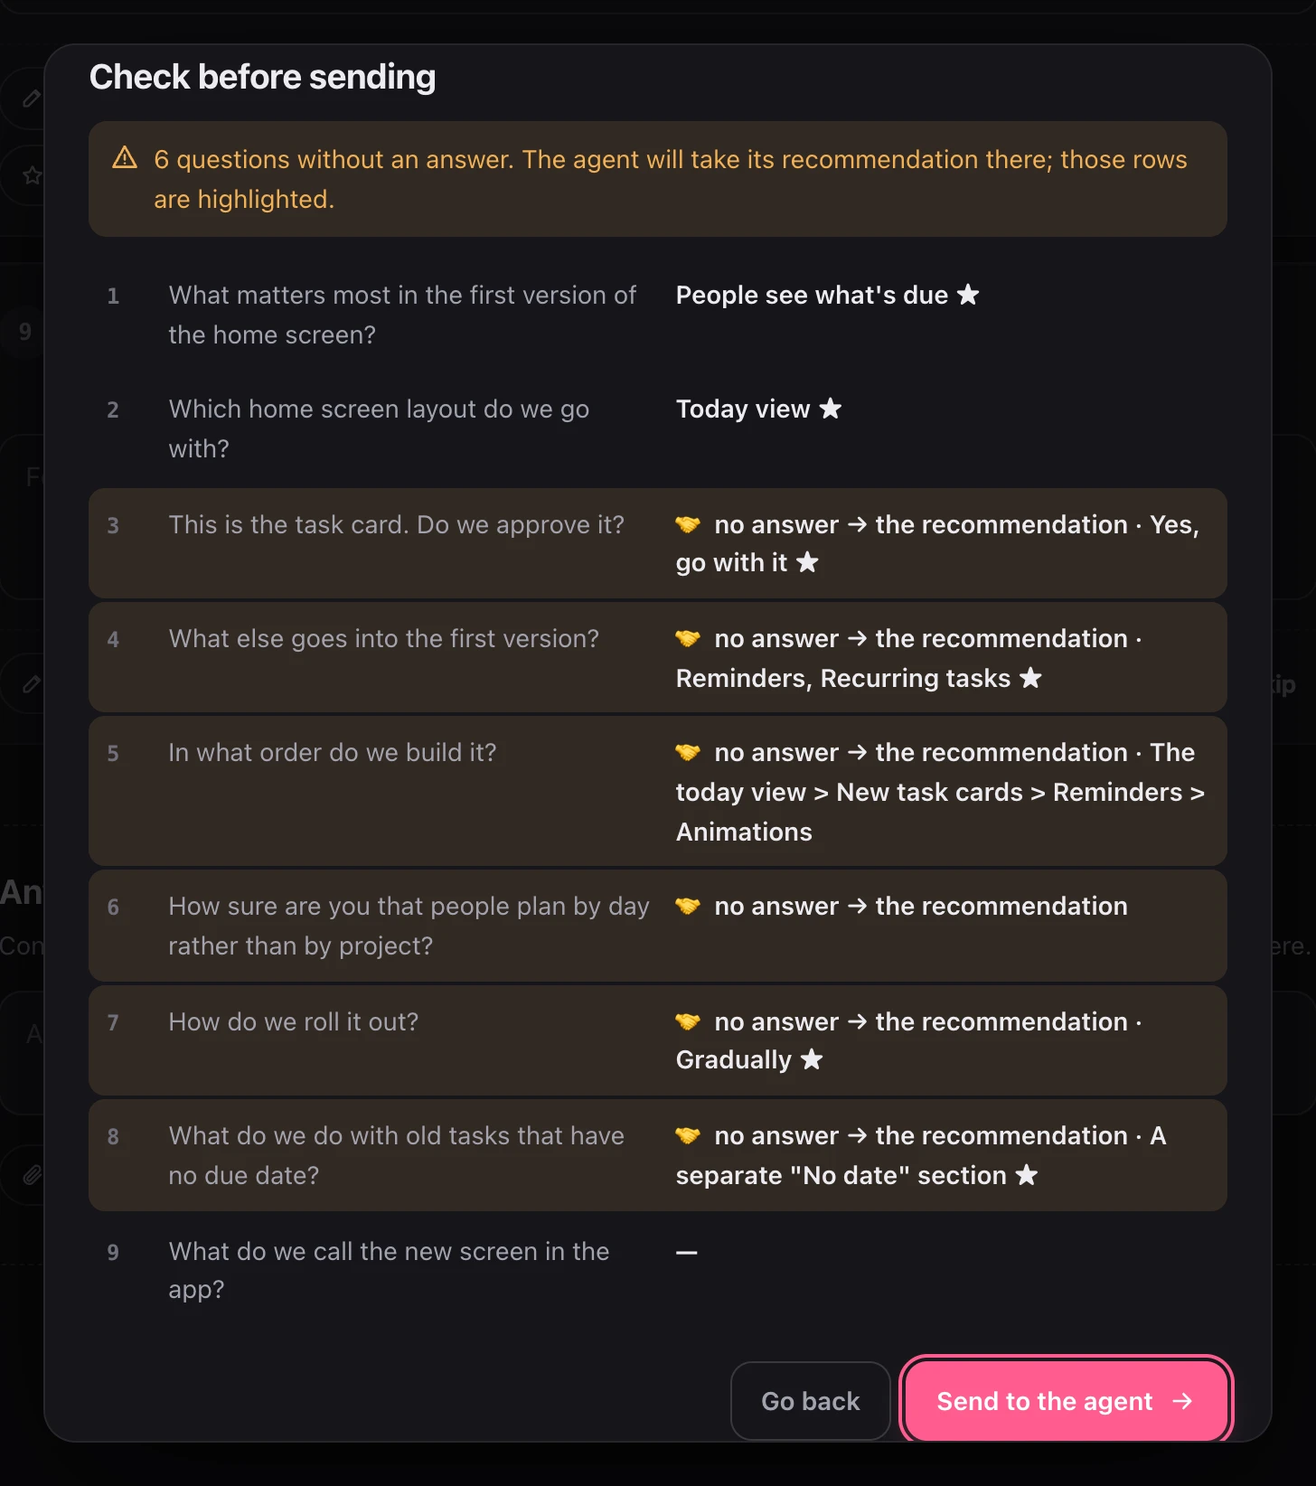
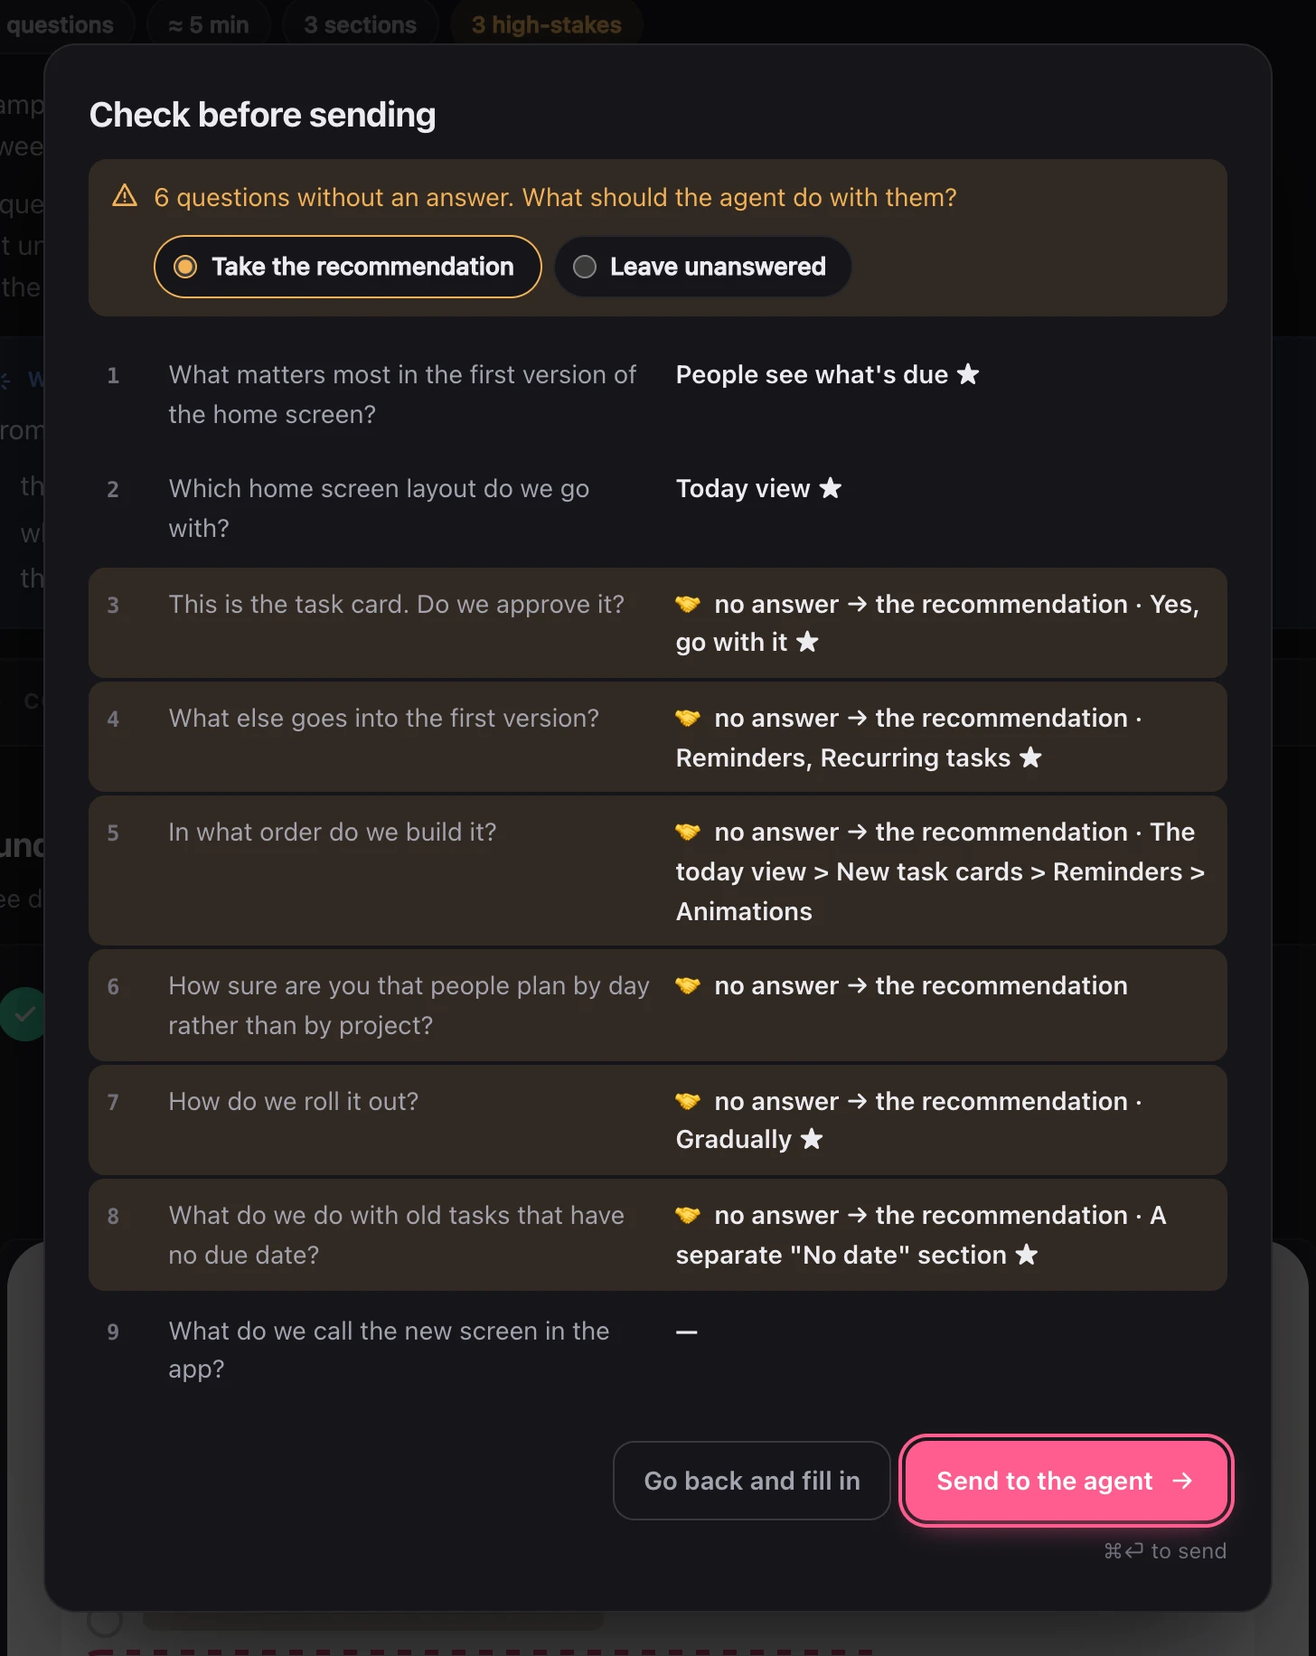
Ask what to do with unanswered questions before sending
The review dialog now lets the user choose: the agent takes its
recommendation for unanswered questions, or they stay unanswered
({ flag: "skip", auto: true }). A "Go back and fill in" button jumps to
the first open question.

- the dialog opens at the top, so the choice is visible on a phone
- dialog rows are translated; the digest stays in English
- a skipped ranking no longer sends the default order

diff --git a/ui/js/overlays.js b/ui/js/overlays.js
@@ -37,7 +37,8 @@ export function openModal(content, { wide = false, onClose } = {}) {
   document.addEventListener("keydown", onKey, true);
   root.addEventListener("click", onClick);
   closeCurrent = close;
-  requestAnimationFrame(() => (box.querySelector("[data-autofocus]") || box.querySelector("button"))?.focus());
+  // the top of a long modal stays in view; focus alone would scroll it to the button
+  requestAnimationFrame(() => (box.querySelector("[data-autofocus]") || box.querySelector("button"))?.focus({ preventScroll: true }));
   return close;
 }
 
@@ -114,38 +115,77 @@ export function openLightbox(images, start, { onAnnotate, annotate = false } = {
   if (annotate && onAnnotate && sameOrigin(images[i].src)) startMarks();
 }
 
+// What to do with unanswered questions; kept while the page is open.
+let fillMode = "recommend";
+
 export function openReview({ spec, answers, comment, onSend, onJump }) {
-  const final = finalizeAnswers(spec, answers, { fill: true });
   const visible = visibleQuestions(spec, answers);
   const open = visible.filter((q) => !isResolved(q, answers[q.id]));
-  const rows = visible.map((q, i) => {
-    const auto = !isResolved(q, answers[q.id]);
-    return h(
-      "button.rv-row",
-      { type: "button", class: auto ? "auto" : "", onclick: () => (close(), onJump(q.id)) },
-      h("span.rv-n", {}, String(i + 1)),
-      h("span.rv-q", { html: mdInline(q.title) }),
-      h("span.rv-a", {}, describe(q, final[q.id]), extrasNote(final[q.id])),
+  const words = reviewWords();
+  const list = h("div.rv-list");
+  const render = () => {
+    const final = finalizeAnswers(spec, answers, { fill: fillMode });
+    list.replaceChildren(
+      ...visible.map((q, i) =>
+        h(
+          "button.rv-row",
+          { type: "button", class: open.includes(q) ? "auto" : "", onclick: () => (close(), onJump(q.id)) },
+          h("span.rv-n", {}, String(i + 1)),
+          h("span.rv-q", { html: mdInline(q.title) }),
+          h("span.rv-a", {}, describe(q, final[q.id], words), extrasNote(final[q.id])),
+        ),
+      ),
     );
-  });
-  const send = h("button.btn.primary", { type: "button", "data-autofocus": "", html: `${t("review.send")}${icon("arrow")}`, onclick: () => (close(), onSend()) });
+  };
+  render();
+  const choice = (mode) =>
+    h(
+      "label.rv-choice",
+      {},
+      h("input", { type: "radio", name: "rv-fill", value: mode, checked: fillMode === mode, onchange: () => ((fillMode = mode), render()) }),
+      h("span", {}, t(`review.fill.${mode}`)),
+    );
+  const status = open.length
+    ? h(
+        "div.rv-warn",
+        { html: icon("alert") },
+        h(
+          "div.rv-body",
+          {},
+          h("p", { id: "rv-open" }, t("review.open", open.length)),
+          h("div.rv-fill", { role: "radiogroup", "aria-labelledby": "rv-open" }, choice("recommend"), choice("skip")),
+        ),
+      )
+    : h("p.rv-ok", { html: `${icon("check")}${t("review.ok")}` });
+  const back = open.length
+    ? h("button.btn.ghost", { type: "button", onclick: () => (close(), onJump(open[0].id)) }, t("review.fillIn"))
+    : h("button.btn.ghost", { type: "button", onclick: () => close() }, t("common.back"));
+  const send = h("button.btn.primary", { type: "button", "data-autofocus": "", html: `${t("review.send")}${icon("arrow")}`, onclick: () => (close(), onSend(fillMode)) });
   const close = openModal(
     h(
       "div.review",
       {},
       h("h2.modal-title", {}, t("review.title")),
-      open.length
-        ? h("p.rv-warn", { html: `${icon("alert")}${t("review.open", open.length)}` })
-        : h("p.rv-ok", { html: `${icon("check")}${t("review.ok")}` }),
-      h("div.rv-list", {}, rows),
+      status,
+      list,
       comment && h("p.rv-comment", {}, t("review.comment", comment)),
-      h("div.modal-actions", {}, h("button.btn.ghost", { type: "button", onclick: () => close() }, t("common.back")), send),
+      h("div.modal-actions", {}, back, send),
       h("p.modal-hint", {}, t("review.hint")),
     ),
     { wide: true },
   );
   return { send: () => send.click() };
 }
+
+const reviewWords = () => ({
+  explain: t("rv.explain"),
+  skip: t("rv.skip"),
+  delegate: t("rv.delegate"),
+  autoSkip: t("rv.autoSkip"),
+  autoDelegate: t("rv.autoDelegate"),
+  against: (recs) => t("rv.against", recs),
+  own: (text) => t("rv.own", text),
+});
 
 function extrasNote(r) {
   const bits = [r?.note && t("review.note"), r?.attachments?.length && `📎 ${r.attachments.length}`].filter(Boolean);

diff --git a/ui/js/logic.js b/ui/js/logic.js
@@ -67,15 +67,17 @@ export function withRecommendation(q, a) {
   return { ...a, selected: q.type === "single" || q.type === "confirm" ? rec.slice(0, 1) : rec, other: "" };
 }
 
-// Build the agent-facing answers map. With fill: unresolved required questions
-// take the recommendation and are marked { flag: "delegate", auto: true }.
+// Build the agent-facing answers map. fill decides what happens to unresolved
+// required questions: "recommend" (or true) takes the recommendation and marks
+// them { flag: "delegate", auto: true }; "skip" leaves them open as
+// { flag: "skip", auto: true }.
 export function finalizeAnswers(spec, answers, { fill = false } = {}) {
   const out = {};
   for (const q of visibleQuestions(spec, answers)) {
     let a = answers[q.id] || emptyAnswer(q);
     let auto = false;
     if (fill && !isResolved(q, a)) {
-      a = { ...withRecommendation(q, a), flag: "delegate" };
+      a = fill === "skip" ? { ...a, flag: "skip" } : { ...withRecommendation(q, a), flag: "delegate" };
       auto = true;
     }
     const r = compact(q, a);
@@ -89,7 +91,7 @@ function compact(q, a) {
   const r = {};
   if (["single", "multi", "confirm"].includes(q.type)) r.selected = [...a.selected];
   if (a.other.trim()) r.other = a.other.trim();
-  if (q.type === "rank" && (a.touched || a.flag)) r.order = [...a.order];
+  if (q.type === "rank" && (a.touched || (a.flag && a.flag !== "skip"))) r.order = [...a.order];
   if (q.type === "scale" && Number.isFinite(a.value)) r.value = a.value;
   if (q.type === "text" && a.text.trim()) r.text = a.text.trim();
   if (a.note.trim()) r.note = a.note.trim();
@@ -100,22 +102,33 @@ function compact(q, a) {
 
 const label = (q, id) => q.options.find((o) => o.id === id)?.label ?? id;
 
-export function describe(q, r) {
+// The digest's wording. The page passes its own translation of the same keys.
+const WORDS = {
+  explain: `❓ ${FLAGS.explain}`,
+  skip: `⏭ ${FLAGS.skip}`,
+  delegate: `🤝 ${FLAGS.delegate}`,
+  autoSkip: "⏭ no answer, left open",
+  autoDelegate: "🤝 no answer → the recommendation",
+  against: (recs) => `(against the recommendation: ${recs})`,
+  own: (text) => `own option: "${text}"`,
+};
+
+export function describe(q, r, w = WORDS) {
   if (!r) return "—";
   const parts = [];
-  if (r.flag === "explain") parts.push(`❓ ${FLAGS.explain}`);
-  if (r.flag === "skip") parts.push(`⏭ ${FLAGS.skip}`);
-  if (r.flag === "delegate") parts.push(r.auto ? "🤝 no answer → the recommendation" : `🤝 ${FLAGS.delegate}`);
+  if (r.flag === "explain") parts.push(w.explain);
+  if (r.flag === "skip") parts.push(r.auto ? w.autoSkip : w.skip);
+  if (r.flag === "delegate") parts.push(r.auto ? w.autoDelegate : w.delegate);
   const rec = recommendedIds(q);
   if (r.selected?.length) {
     const picked = r.selected.map((id) => label(q, id)).join(", ");
     const same = rec.length && r.selected.every((id) => rec.includes(id));
     const against = rec.length && !r.selected.some((id) => rec.includes(id));
     parts.push(
-      picked + (same ? " ★" : against ? ` (against the recommendation: ${rec.map((id) => label(q, id)).join(", ")})` : ""),
+      picked + (same ? " ★" : against ? ` ${w.against(rec.map((id) => label(q, id)).join(", "))}` : ""),
     );
   }
-  if (r.other) parts.push(`own option: "${r.other}"`);
+  if (r.other) parts.push(w.own(r.other));
   if (r.order) parts.push(r.order.map((id) => label(q, id)).join(" > "));
   if (r.value != null) {
     const hint = q.scale?.labels?.[r.value];

diff --git a/ui/js/lang/ru.js b/ui/js/lang/ru.js
@@ -100,7 +100,7 @@ export default {
 
   "progress.count": (r, n) => `Решено ${r} из ${n}`,
   "progress.all": "Всё решено",
-  "progress.left": (n) => `ещё ${questions(n)} — остальное агент возьмёт по рекомендации`,
+  "progress.left": (n) => `ещё ${questions(n)} — перед отправкой можно решить, что агенту с ними делать`,
   "progress.ready": "можно отправлять",
   "final.title": "Что-то ещё?",
   "final.sub": "Контекст, сомнения, пожелания — агент прочитает перед следующим шагом. Скриншоты можно вставить через ⌘V или перетащить сюда.",
@@ -130,11 +130,21 @@ export default {
   "lb.next": "Следующее",
   "review.send": "Отправить агенту",
   "review.title": "Проверьте перед отправкой",
-  "review.open": (n) => `Без ответа: ${n}. Агент возьмёт свою рекомендацию — строки подсвечены.`,
+  "review.open": (n) => `Без ответа ${plural(n, "остался", "осталось", "осталось")} ${questions(n)}. Что агенту с ${n === 1 ? "ним" : "ними"} делать?`,
+  "review.fill.recommend": "Взять рекомендацию",
+  "review.fill.skip": "Оставить без ответа",
+  "review.fillIn": "Вернуться и заполнить",
   "review.ok": "Все вопросы решены.",
   "review.comment": (c) => `Комментарий: ${c}`,
   "review.hint": "⌘⏎ — отправить",
   "review.note": "✎ заметка",
+  "rv.explain": "❓ объяснить подробнее",
+  "rv.skip": "⏭ пропущено",
+  "rv.delegate": "🤝 решит агент",
+  "rv.autoSkip": "⏭ без ответа",
+  "rv.autoDelegate": "🤝 без ответа → рекомендация",
+  "rv.against": (recs) => `(вопреки рекомендации: ${recs})`,
+  "rv.own": (text) => `свой вариант: «${text}»`,
   "common.back": "Вернуться",
   "common.cancel": "Отмена",
 

diff --git a/ui/css/overlays.css b/ui/css/overlays.css
@@ -16,14 +16,26 @@ body.locked { overflow: hidden; }
 .modal.wide { width: min(680px, 100%); }
 @keyframes pop { from { opacity: 0; transform: translateY(8px) scale(0.98); } }
 .modal-title { font-size: 19px; font-weight: 700; letter-spacing: -0.015em; margin: 0 0 10px; }
-.modal-actions { display: flex; justify-content: flex-end; gap: 8px; margin-top: 20px; }
+.modal-actions { display: flex; flex-wrap: wrap; justify-content: flex-end; gap: 8px; margin-top: 20px; }
+@media (max-width: 560px) { .modal-actions { flex-direction: column-reverse; } .modal-actions .btn { justify-content: center; } }
 .modal-hint { text-align: right; font-size: 12px; color: var(--tx-dim); margin: 8px 0 0; }
 .confirm-cancel p { color: var(--tx-mut); margin: 0; }
 
 .rv-warn, .rv-ok { display: flex; gap: 8px; align-items: flex-start; font-size: 14px; margin: 0 0 12px; padding: 10px 12px; border-radius: 10px; }
 .rv-warn { background: var(--warn-soft); color: var(--warn); }
 .rv-ok { background: var(--ok-soft); color: var(--ok); }
-.rv-warn .i, .rv-ok .i { margin-top: 2px; }
+.rv-warn .i, .rv-ok .i { margin-top: 2px; flex: none; }
+.rv-body { display: grid; gap: 10px; min-width: 0; }
+.rv-body p { margin: 0; }
+.rv-fill { display: flex; flex-wrap: wrap; gap: 6px; }
+.rv-choice {
+  display: inline-flex; align-items: center; gap: 8px; padding: 6px 14px 6px 10px; border-radius: 999px; cursor: pointer;
+  background: var(--surface); border: 1px solid var(--line); color: var(--tx); font-size: 13.5px; font-weight: 550;
+}
+.rv-choice:hover { border-color: var(--tx-dim); }
+.rv-choice:has(input:checked) { border-color: var(--warn); }
+.rv-choice:has(input:focus-visible) { outline: 2px solid var(--warn); outline-offset: 2px; }
+.rv-choice input { margin: 0; accent-color: var(--warn); }
 .rv-list { display: grid; gap: 2px; }
 .rv-row {
   display: grid; grid-template-columns: 22px minmax(0, 1fr) minmax(0, 1.1fr); gap: 12px; align-items: baseline;

diff --git a/ui/js/lang/en.js b/ui/js/lang/en.js
@@ -93,7 +93,7 @@ export default {
 
   "progress.count": (r, n) => `${r} of ${n} decided`,
   "progress.all": "All decided",
-  "progress.left": (n) => `${n1(n, "question", "questions")} left; the agent will take its recommendation for the rest`,
+  "progress.left": (n) => `${n1(n, "question", "questions")} left; before sending you choose what the agent does with the rest`,
   "progress.ready": "ready to send",
   "final.title": "Anything else?",
   "final.sub": "Context, doubts, wishes: the agent reads this before its next step. Paste screenshots with ⌘V or drop them here.",
@@ -123,11 +123,21 @@ export default {
   "lb.next": "Next",
   "review.send": "Send to the agent",
   "review.title": "Check before sending",
-  "review.open": (n) => `${n1(n, "question", "questions")} without an answer. The agent will take its recommendation there; those rows are highlighted.`,
+  "review.open": (n) => `${n1(n, "question", "questions")} without an answer. What should the agent do with ${n === 1 ? "it" : "them"}?`,
+  "review.fill.recommend": "Take the recommendation",
+  "review.fill.skip": "Leave unanswered",
+  "review.fillIn": "Go back and fill in",
   "review.ok": "Every question is decided.",
   "review.comment": (c) => `Comment: ${c}`,
   "review.hint": "⌘⏎ to send",
   "review.note": "✎ note",
+  "rv.explain": "❓ explain more",
+  "rv.skip": "⏭ skipped",
+  "rv.delegate": "🤝 agent decides",
+  "rv.autoSkip": "⏭ no answer",
+  "rv.autoDelegate": "🤝 no answer → the recommendation",
+  "rv.against": (recs) => `(against the recommendation: ${recs})`,
+  "rv.own": (text) => `own option: "${text}"`,
   "common.back": "Go back",
   "common.cancel": "Cancel",
 

diff --git a/ui/js/main.js b/ui/js/main.js
@@ -222,12 +222,12 @@ function review() {
   openReview({ spec: r.spec, answers: r.answers, comment: r.comment().trim(), onSend: send, onJump: go });
 }
 
-async function send() {
+async function send(fill = "recommend") {
   const r = app.round;
   if (!r || app.sending) return;
   app.sending = true;
   try {
-    const res = await submitRound(r.id, r.payload(finalizeAnswers(r.spec, r.answers, { fill: true })));
+    const res = await submitRound(r.id, r.payload(finalizeAnswers(r.spec, r.answers, { fill })));
     showDone(r.id, res.result);
   } catch (e) {
     if (e.status === 409) openRound(r.id, false);

diff --git a/skills/decide/SKILL.md b/skills/decide/SKILL.md
@@ -139,7 +139,7 @@ answers") so the user can catch a misunderstanding early.
 | The title is a plain question a non-engineer understands. Jargon goes to `glossary`.                                                  | Glossary terms get a tooltip on first use.                        |
 | `tldr`: one line on what depends on the answer. Longer context goes to `what` / `how` / `why` / `goal`, which stay folded.            | The user reads title and tldr, and opens the rest only if needed. |
 | 2–4 real options. No filler options that exist only to lose.                                                                          | A fake choice is worse than no question.                          |
-| Exactly one option is `recommended`, and the value is the reason: `"recommended": "cheapest to undo"`.                                | Shown as ★ with the reason; unanswered questions fall back to it. |
+| Exactly one option is `recommended`, and the value is the reason: `"recommended": "cheapest to undo"`.                                | Shown as ★ with the reason; can fill questions left unanswered.   |
 | `pros` / `cons`: up to three each, concrete. `metrics` use the same labels on every option of a question; numbers 1–5 render as dots. | Side-by-side comparison only works when the axes match.           |
 | `stakes: "high"` for money, personal data, auth, production data; `reversible: false` for anything that can't be undone.              | Both show as badges, so the user slows down where it matters.     |
 | `danger: true` on an option that can break something live.                                                                            | Shown as a warning.                                               |
@@ -182,7 +182,8 @@ Then open the JSON for notes, attachments and the dialog.
 | `attachments`                        | Absolute paths to screenshots or marked-up images. Look at every one.                                                 |
 | `flag: "explain"`                    | The user still needs context. Explain in the next round; don't pick silently.                                         |
 | `flag: "delegate"`                   | "You decide." Pick (usually your recommendation) and say what you picked in your summary.                             |
-| `auto: true`                         | Left unanswered, so the recommendation was applied. List these in your summary.                                       |
+| `auto: true` + `flag: "delegate"`    | Left unanswered, and the user let your recommendation stand. List these in your summary.                              |
+| `auto: true` + `flag: "skip"`        | Left unanswered, and the user chose not to take your recommendation. Don't pick silently; ask again if it blocks.     |
 | `flag: "skip"`                       | Leave that part out or as it is. Don't bring it back unless it blocks the work.                                       |
 | `dialog`                             | What the user asked you on the page and what you answered. Their final choice already accounts for it.                |
 | `comment`, top-level `attachments`   | Context for the whole round. Read them before acting.                                                                 |

diff --git a/README.md b/README.md
@@ -36,7 +36,7 @@ decide moves that exchange to a page built for it.
 | Six questions at once          | A numbered wall; you reply "1b, 2 yes, 3 ?" | One card per question, one click each, or the digits 1–9                     |
 | Seeing what you choose         | Text descriptions                           | Screenshots of your running app, clickable HTML mockups, diagrams, code      |
 | "What does this mean?"         | A new message, and the other answers wait   | Ask under the question; the agent answers right there while you go on       |
-| Questions you don't care about | The agent guesses                           | The agent's recommendation, and it knows you didn't pick it yourself         |
+| Questions you don't care about | The agent guesses                           | The recommendation or no answer, you choose; it knows you didn't pick it     |
 | Next week                      | Scroll up and hope                          | Every decision is kept per project, and the agent checks before asking again |
 
 Claude Code's built-in question picker is fine for one quick choice: it takes
@@ -116,11 +116,12 @@ click around before you approve it.
 </picture>
 </td>
 <td width="50%" valign="top">
-<b>Check before sending.</b> Rows that fall back to the recommendation are
-highlighted.
+<b>Check before sending.</b> Unanswered questions are highlighted. The agent
+takes its recommendation there or leaves them open, or you go back and fill them
+in.
 <picture>
   <source media="(prefers-color-scheme: dark)" srcset="docs/screens/review-dark.webp">
-  <img src="docs/screens/review-light.webp" alt="The review dialog listing every answer, with unanswered questions highlighted">
+  <img src="docs/screens/review-light.webp" alt="The review dialog listing every answer, with unanswered questions highlighted and a choice of what the agent does with them">
 </picture>
 </td>
 </tr>

diff --git a/skills/decide/spec.md b/skills/decide/spec.md
@@ -128,6 +128,10 @@ skipped. Viewports: desktop 1440×900, mobile 390×844 at 2×. Set
 }
 ```
 
+`auto: true` marks a question the user left unanswered. Before sending they
+choose what happens to those: `flag: "delegate"` means the recommendation stands
+(as in `share` above), `flag: "skip"` means it stays open.
+
 `digest` is always in English, whatever the language of the page and the
 questions. A cancelled round has `cancelled: true` and no answers. Answers go to
 `<slug>.answers.json` next to the spec; unfinished answers are kept in
